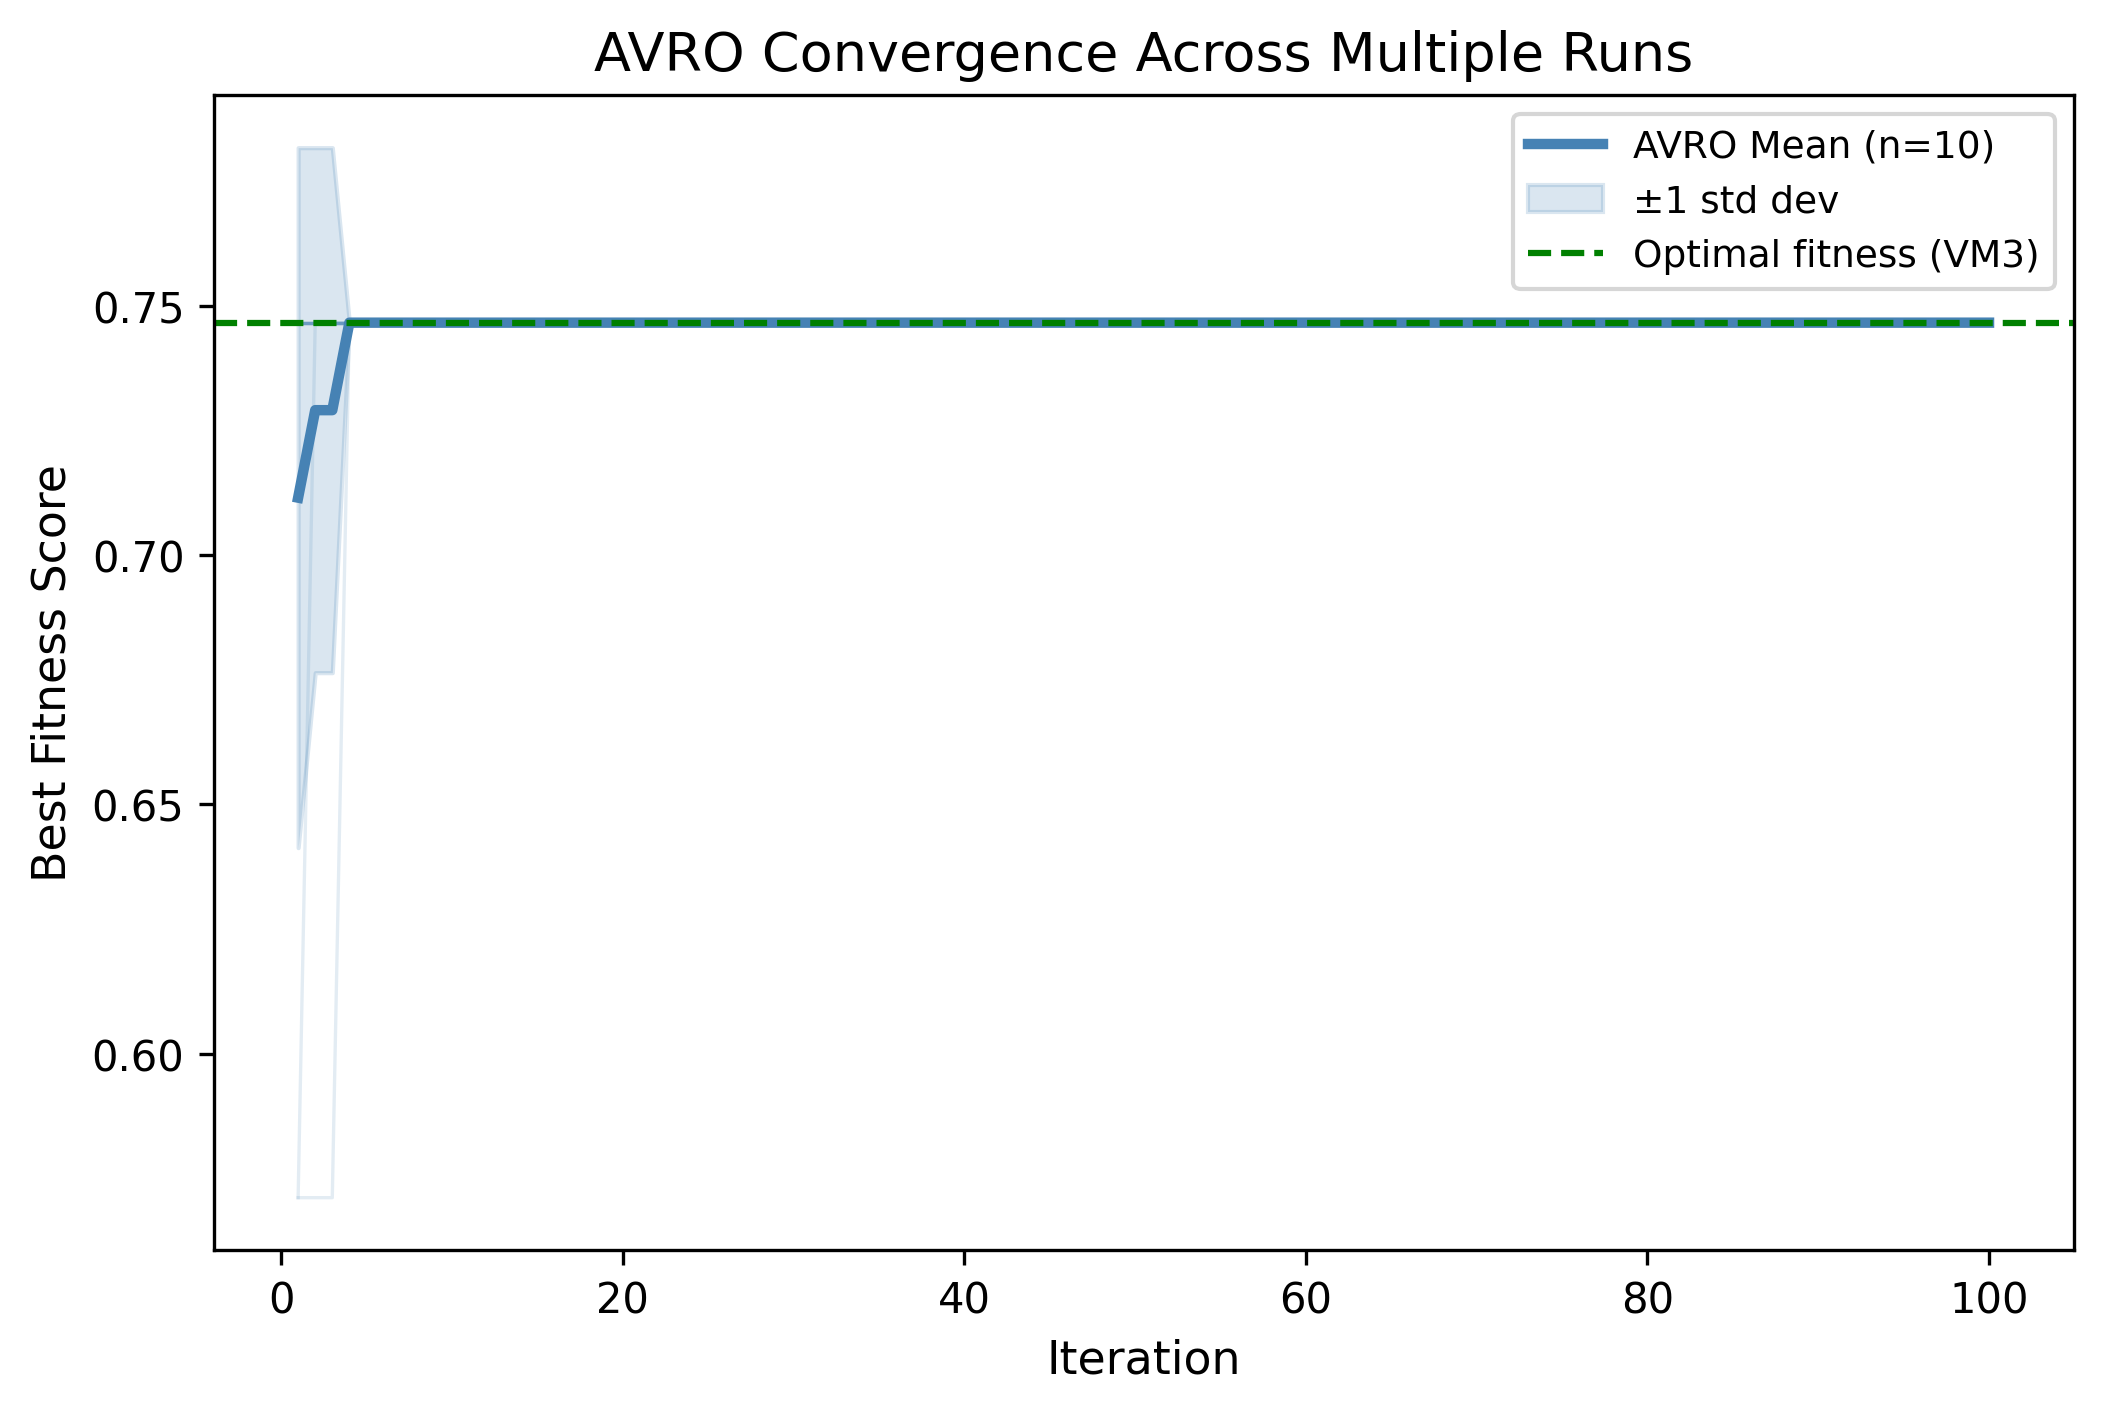
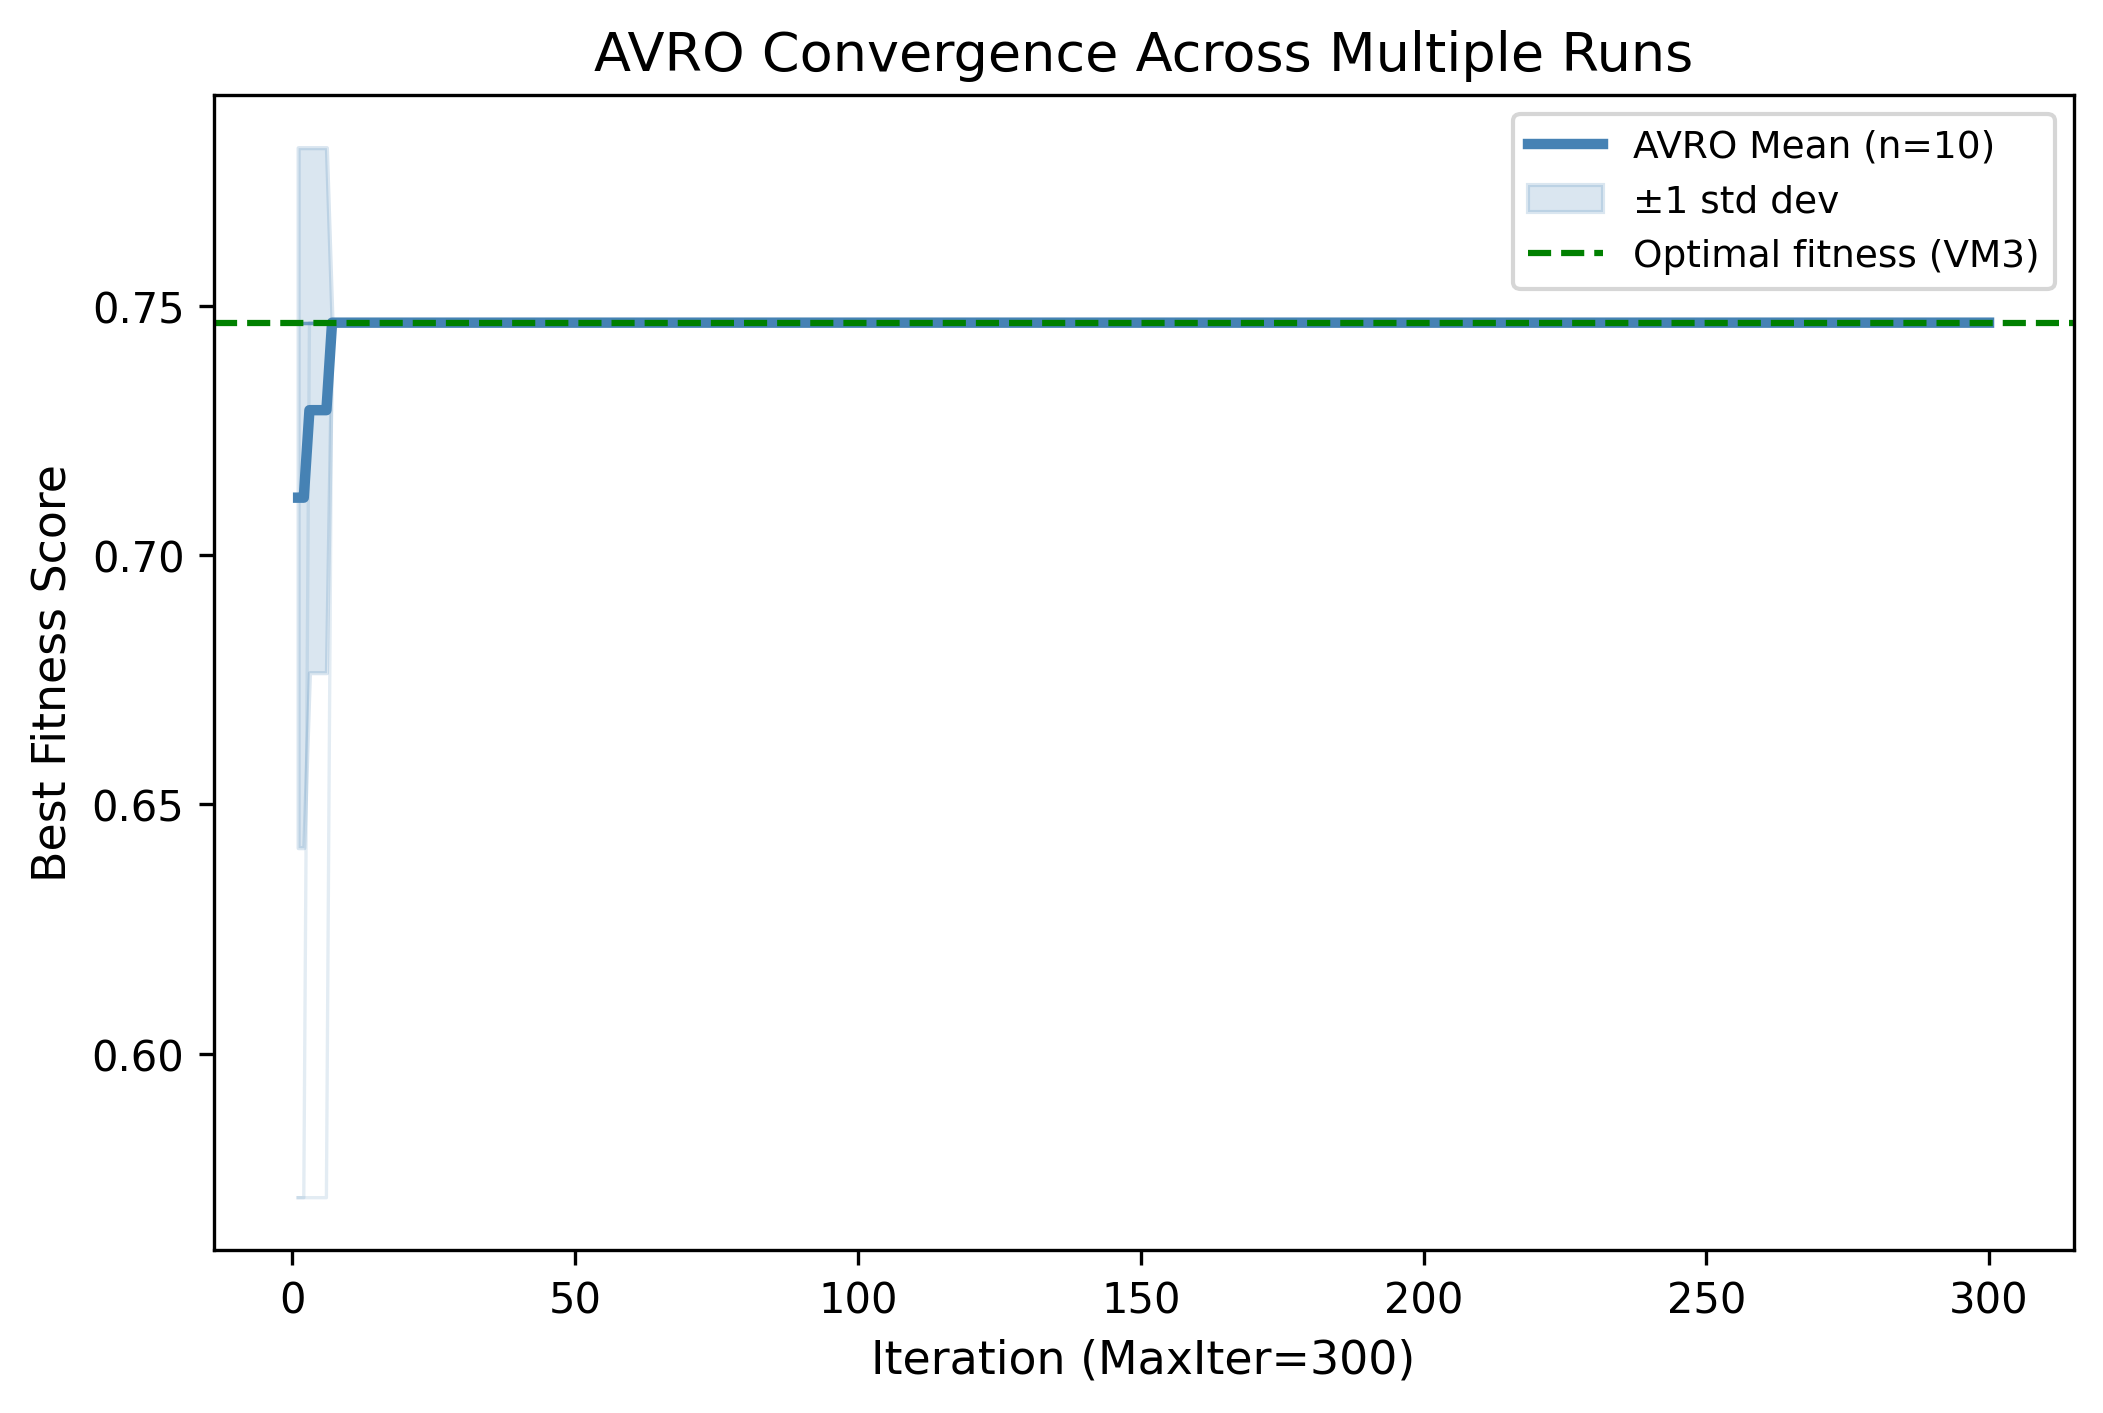
latest

diff --git a/results/sensitivity.py b/results/sensitivity.py
@@ -1,0 +1,118 @@
+"""Run reproducible AVRO fitness-weight and fast-select threshold sweeps."""
+
+import csv
+import os
+import random
+import sys
+
+import numpy as np
+
+sys.path.insert(0, os.path.abspath(
+    os.path.join(os.path.dirname(__file__), '..')))
+
+import src.scheduler.fitness as fit
+from src.scheduler.avro import AVROScheduler
+from src.scheduler.environment import CloudEnvironment
+from src.scheduler.simulation import (
+    generate_uniform_workload,
+    generate_bursty_workload,
+    generate_gravity_workload,
+)
+
+RUNS = 10
+WEIGHTS = {
+    'baseline': (0.4, 0.3, 0.2, 0.1),
+    'equal': (0.25, 0.25, 0.25, 0.25),
+    'cpu-heavy': (0.6, 0.2, 0.1, 0.1),
+    'net-heavy': (0.3, 0.2, 0.2, 0.3),
+}
+THRESHOLDS = [0.2, 0.3, 0.4]
+WORKLOAD_GENERATORS = {
+    'Uniform': lambda: generate_uniform_workload(200, arrival_rate=2.0),
+    'Bursty': lambda: generate_bursty_workload(200, burst_size=20),
+    'Gravity': lambda: generate_gravity_workload(200, num_vms=4),
+}
+
+
+def generate_workloads():
+    """Generate each seeded workload once so all configurations share it."""
+    workloads = {name: [] for name in WORKLOAD_GENERATORS}
+    for seed in range(RUNS):
+        for name, generator in WORKLOAD_GENERATORS.items():
+            random.seed(seed)
+            np.random.seed(seed)
+            workloads[name].append(generator())
+    return workloads
+
+
+def run_configuration(name, weights, threshold, workloads):
+    fit.W_CPU, fit.W_MEMORY, fit.W_QUEUE, fit.W_DELAY = weights
+    response_times = []
+    decision_times = []
+    fast_path_count = 0
+    selection_count = 0
+
+    for workload_name, seeded_workloads in workloads.items():
+        for seed, tasks in enumerate(seeded_workloads):
+            random.seed(seed)
+            np.random.seed(seed)
+            scheduler = AVROScheduler(10, 30, threshold=threshold)
+            result = CloudEnvironment(
+                num_vms=4,
+                seed=seed,
+            ).run_experiment(tasks, scheduler, workload_name)
+            response_times.append(result['avg_response'])
+            decision_times.append(result['avg_decision_ms'])
+            fast_path_count += scheduler.fast_path_count
+            selection_count += scheduler.selection_count
+
+    return {
+        'configuration': name,
+        'avg_response_mean': float(np.mean(response_times)),
+        'avg_response_std': float(np.std(response_times)),
+        'avg_decision_ms': float(np.mean(decision_times)),
+        'fast_path_rate': (
+            fast_path_count / selection_count if selection_count else 0.0
+        ),
+    }
+
+
+def main():
+    workloads = generate_workloads()
+    configurations = [
+        (name, weights, 0.3)
+        for name, weights in WEIGHTS.items()
+    ]
+    configurations.extend(
+        (f'thr={threshold:.1f}', WEIGHTS['baseline'], threshold)
+        for threshold in THRESHOLDS
+    )
+
+    rows = [
+        run_configuration(name, weights, threshold, workloads)
+        for name, weights, threshold in configurations
+    ]
+
+    output_path = os.path.join(
+        os.path.dirname(__file__), 'sensitivity_results.csv')
+    with open(output_path, 'w', newline='', encoding='utf-8') as output:
+        writer = csv.DictWriter(output, fieldnames=rows[0].keys())
+        writer.writeheader()
+        writer.writerows(rows)
+
+    print('Sensitivity sweep (pooled across 3 workloads × 10 seeds)')
+    print(f"{'Configuration':<14} {'Response mean±std':>22} "
+          f"{'Decision ms':>13} {'Fast path':>11}")
+    for row in rows:
+        response = (
+            f"{row['avg_response_mean']:.3f}±"
+            f"{row['avg_response_std']:.3f}"
+        )
+        print(f"{row['configuration']:<14} {response:>22} "
+              f"{row['avg_decision_ms']:>13.3f} "
+              f"{row['fast_path_rate']:>10.1%}")
+    print(f'\nCSV saved to: {output_path}')
+
+
+if __name__ == '__main__':
+    main()

diff --git a/results/plot_convergence.py b/results/plot_convergence.py
@@ -36,13 +36,18 @@ VM_LABELS = [
     'VM3\n(Best)',
 ]
 
+CONVERGENCE_MAX_ITER = 300
+
 
 def plot_convergence(ax, num_runs=10):
     """
     Plot 1 — AVRO convergence curves over multiple runs.
     Shows algorithm stability.
     """
-    scheduler = AVROScheduler(pop_size=10, max_iter=100)
+    scheduler = AVROScheduler(
+        pop_size=10,
+        max_iter=CONVERGENCE_MAX_ITER,
+    )
     all_histories = []
 
     for _ in range(num_runs):
@@ -53,7 +58,7 @@ def plot_convergence(ax, num_runs=10):
     history_array = np.array(all_histories)
     mean_history  = history_array.mean(axis=0)
     std_history   = history_array.std(axis=0)
-    iterations    = range(1, 101)
+    iterations    = range(1, CONVERGENCE_MAX_ITER + 1)
 
     # Plot individual runs faintly
     for h in all_histories:
@@ -73,18 +78,18 @@ def plot_convergence(ax, num_runs=10):
                color='green', linestyle='--', linewidth=1.5,
                label='Optimal fitness (VM3)')
 
-    ax.set_xlabel('Iteration', fontsize=11)
+    ax.set_xlabel(f'Iteration (MaxIter={CONVERGENCE_MAX_ITER})', fontsize=11)
     ax.set_ylabel('Best Fitness Score', fontsize=11)
     ax.set_title('AVRO Convergence Across Multiple Runs', fontsize=13)
     ax.legend(fontsize=9)
 
 
-def plot_vm_selection_distribution(ax, num_tasks=200):
+def plot_vm_selection_distribution(ax, num_tasks=300):
     """
     Plot 2 — VM selection distribution: AVRO vs Round Robin.
     Shows AVRO intelligence vs RR blindness.
     """
-    avro = AVROScheduler(pop_size=10, max_iter=100)
+    avro = AVROScheduler(pop_size=10, max_iter=300)
     rr   = RoundRobinScheduler(num_vms=4)
 
     avro_counts = {i: 0 for i in range(4)}
@@ -151,7 +156,10 @@ def plot_fitness_comparison(ax, num_tasks=100):
     Plot 3 — Cumulative average fitness over sequential tasks.
     Shows AVRO consistently outperforms RR over time.
     """
-    avro = AVROScheduler(pop_size=10, max_iter=100)
+    avro = AVROScheduler(
+        pop_size=10,
+        max_iter=CONVERGENCE_MAX_ITER,
+    )
     rr   = RoundRobinScheduler(num_vms=4)
 
     avro_cumulative = []

diff --git a/src/scheduler/avro.py b/src/scheduler/avro.py
@@ -37,10 +37,14 @@ class AVROScheduler:
     def __init__(self,
                  pop_size=POP_SIZE,
                  max_iter=MAX_ITER,
-                 t_train=T_TRAIN):
+                 t_train=T_TRAIN,
+                 threshold=0.3):
         self.pop_size = pop_size
         self.max_iter = max_iter
         self.t_train  = t_train
+        self.threshold = threshold
+        self.selection_count = 0
+        self.fast_path_count = 0
 
     # ────────────────────────────────────────────────────────────
     # STAGE 1A — Population Initialization
@@ -323,7 +327,7 @@ class AVROScheduler:
     
     def _fast_select(self,
                      vm_stats_list: list,
-                     threshold: float = 0.3) -> int or None:
+                     threshold: float) -> int or None:
         """
         Fast path using relative fitness scoring.
         Handles saturated scenarios where all VMs are overloaded.
@@ -375,12 +379,17 @@ class AVROScheduler:
 
         if num_vms == 0:
             raise ValueError("vm_stats_list cannot be empty")
+        if not track_convergence:
+            self.selection_count += 1
         if num_vms == 1:
+            if not track_convergence:
+                self.fast_path_count += 1
             return (0, []) if track_convergence else 0
         
         if not track_convergence:
-            fast_result = self._fast_select(vm_stats_list)
+            fast_result = self._fast_select(vm_stats_list, self.threshold)
             if fast_result is not None:
+                self.fast_path_count += 1
                 return fast_result
 
          # Fast path 2 — all VMs saturated
@@ -388,6 +397,7 @@ class AVROScheduler:
             all_saturated = all(
                 vm['cpu'] > 0.80 for vm in vm_stats_list)
             if all_saturated:
+                self.fast_path_count += 1
                 return min(
                     range(num_vms),
                     key=lambda i: (

diff --git a/tests/test_avro.py b/tests/test_avro.py
@@ -8,6 +8,7 @@ Stage 1: Population, Leader Selection, Satiety.
 import sys
 import os
 import numpy as np
+from unittest.mock import patch
 sys.path.insert(0, os.path.abspath(os.path.join(os.path.dirname(__file__), '..')))
 
 from src.scheduler.avro import AVROScheduler
@@ -265,6 +266,28 @@ def test_select_vm_returns_valid_index():
         f"VM index {result} out of range [0, {len(VM_STATS)})"
     )
 
+def test_fast_select_uses_configured_threshold():
+    ranking = [(2, 0.7), (1, 0.4), (0, 0.1)]
+    with patch('src.scheduler.fitness.compute_relative_fitness',
+               return_value=ranking):
+        lower_threshold = AVROScheduler(threshold=0.2)
+        higher_threshold = AVROScheduler(threshold=0.4)
+
+        assert lower_threshold._fast_select(VM_STATS, 0.2) == 2
+        assert higher_threshold._fast_select(VM_STATS, 0.4) is None
+
+
+def test_fast_path_counter_tracks_loop_skips():
+    scheduler = AVROScheduler(threshold=0.2)
+    ranking = [(2, 0.7), (1, 0.4), (0, 0.1)]
+
+    with patch('src.scheduler.fitness.compute_relative_fitness',
+               return_value=ranking):
+        assert scheduler.select_vm(VM_STATS) == 2
+
+    assert scheduler.selection_count == 1
+    assert scheduler.fast_path_count == 1
+
 
 def test_select_vm_avoids_overloaded():
     """
@@ -392,6 +415,8 @@ def run_all_tests():
         test_exploration_moves_population,
         test_exploration_diversity,
         test_select_vm_returns_valid_index,
+        test_fast_select_uses_configured_threshold,
+        test_fast_path_counter_tracks_loop_skips,
         test_select_vm_avoids_overloaded,
         test_select_vm_single_vm,
         test_select_vm_empty_raises,
@@ -426,4 +451,3 @@ def run_all_tests():
 if __name__ == "__main__":
     success = run_all_tests()
     sys.exit(0 if success else 1)
-

diff --git a/results/run_experiment.py b/results/run_experiment.py
@@ -30,7 +30,7 @@ from src.scheduler.round_robin import RoundRobinScheduler
 from src.scheduler.fitness     import compute_fitness
 
 VM_CAPACITIES = [2, 4, 4, 8]  # cpu_cores matching CloudEnvironment
-NUM_EXPERIMENT_RUNS = 5  # run each experiment 5 times, report mean
+NUM_EXPERIMENT_RUNS = 10  # repetitions per workload/scheduler combination
 
 WORKLOADS = {
     'Uniform':  generate_uniform_workload(200, arrival_rate=2.0),
@@ -132,15 +132,13 @@ def print_results_table(results):
                 row   += f"{v:>11.4f}{marker}"[0:13]
 
             print(row)
-# --- Added block to print std devs ---
-            print(f"\n  Std deviations ({workload_name}):")
-            for metric_key, metric_label, _ in metrics_to_show:
-                print(f"  {metric_label:<22}", end="")
-                for s in sched_order:
-                    std = results[workload_name][s].get(f'{metric_key}_std', 0)
-                    print(f" {std:>12.4f}", end="")
-                print()
-        # --------------------------------------
+        print(f"\n  Std deviations ({workload_name}):")
+        for metric_key, metric_label, _ in metrics_to_show:
+            print(f"  {metric_label:<22}", end="")
+            for s in sched_order:
+                std = res[s].get(f'{metric_key}_std', 0)
+                print(f" {std:>12.4f}", end="")
+            print()
         # VM distribution row
         print(f"  {'VM Distribution':<22}", end="")
         for s in sched_order:

diff --git a/results/threshold_sensitivity.py b/results/threshold_sensitivity.py
@@ -1,0 +1,32 @@
+# Save as results/threshold_sensitivity.py and run it
+import sys, os
+sys.path.insert(0, os.path.abspath(os.path.join(os.path.dirname(__file__), '..')))
+from src.scheduler.avro import AVROScheduler
+from src.scheduler.environment import CloudEnvironment
+from src.scheduler.simulation import (generate_uniform_workload,
+    generate_bursty_workload, generate_gravity_workload)
+
+for threshold in [0.2, 0.3, 0.4]:
+    fast_count = 0
+    total = 0
+    dq_scores = {'Uniform': [], 'Bursty': [], 'Gravity': []}
+
+    for run in range(10):
+        for wname, wfn in [
+            ('Uniform', lambda: generate_uniform_workload(200)),
+            ('Bursty',  lambda: generate_bursty_workload(200)),
+            ('Gravity', lambda: generate_gravity_workload(200))
+        ]:
+            env = CloudEnvironment(num_vms=4, seed=run)
+            sched = AVROScheduler(
+                pop_size=10,
+                max_iter=30,
+                threshold=threshold,
+            )
+            result = env.run_experiment(wfn(), sched, wname)
+            dq_scores[wname].append(result['decision_quality'])
+
+    import numpy as np
+    print(f"\nThreshold {threshold}:")
+    for w in ['Uniform','Bursty','Gravity']:
+        print(f"  {w}: DQ={np.mean(dq_scores[w]):.4f} ±{np.std(dq_scores[w]):.4f}")

diff --git a/src/scheduler/api.py b/src/scheduler/api.py
@@ -25,7 +25,7 @@ from src.scheduler.baselines   import LeastLoadedScheduler
 
 
 # Active scheduler — swap this to compare algorithms
-ACTIVE_SCHEDULER = AVROScheduler(pop_size=5, max_iter=15)
+ACTIVE_SCHEDULER = AVROScheduler(pop_size=5, max_iter=30)
 
 # Decision log — Member 4 reads this
 decision_log = []
